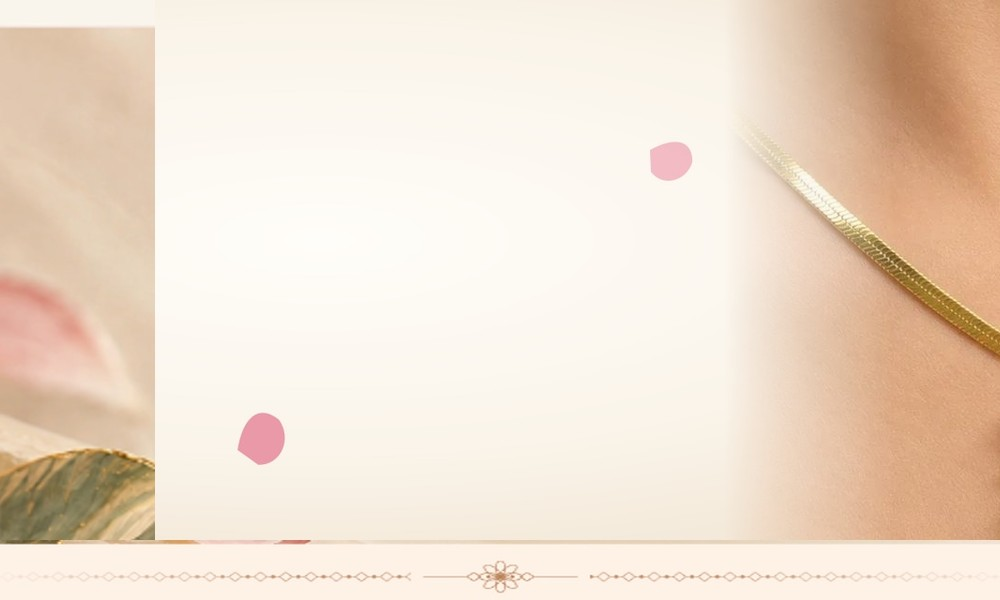
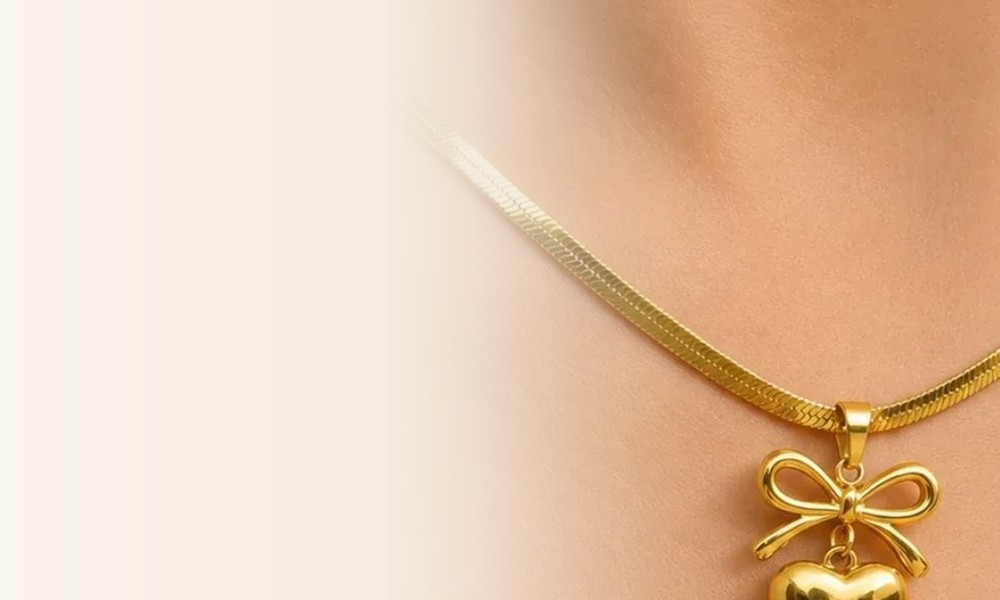
Blend single jewellery photo seamlessly into warm studio background and remove all flowers

diff --git a/scripts/create-seamless-blended-banners.js b/scripts/create-seamless-blended-banners.js
@@ -1,0 +1,206 @@
+const sharp = require('sharp');
+const path = require('path');
+const fs = require('fs');
+
+const BANNERS_DIR = path.join(__dirname, '../public/images/banners');
+const W = 1920;
+const H = 720;
+
+// Helper to create a smooth feathered mask for blending
+function makeFeatherMaskSvg(w, h, fadeWidth = 450) {
+  return Buffer.from(`
+    <svg width="${w}" height="${h}" xmlns="http://www.w3.org/2000/svg">
+      <defs>
+        <linearGradient id="smoothFade" x1="0%" y1="0%" x2="100%" y2="0%">
+          <stop offset="0%" stop-color="#000000" stop-opacity="0" />
+          <stop offset="${(fadeWidth * 0.25) / w * 100}%" stop-color="#FFFFFF" stop-opacity="0.15" />
+          <stop offset="${(fadeWidth * 0.6) / w * 100}%" stop-color="#FFFFFF" stop-opacity="0.6" />
+          <stop offset="${(fadeWidth * 0.85) / w * 100}%" stop-color="#FFFFFF" stop-opacity="0.9" />
+          <stop offset="${fadeWidth / w * 100}%" stop-color="#FFFFFF" stop-opacity="1" />
+          <stop offset="100%" stop-color="#FFFFFF" stop-opacity="1" />
+        </linearGradient>
+      </defs>
+      <rect width="${w}" height="${h}" fill="url(#smoothFade)" />
+    </svg>
+  `);
+}
+
+// ----------------------------------------------------------------------
+// 1. SLIDER 1: GOLD HEART BOW PENDANT NECKLACE
+// ----------------------------------------------------------------------
+async function blendNecklaceBanner() {
+  const modelPath = path.join(BANNERS_DIR, 'user-gold-heart-necklace.jpg');
+
+  // The model image is 1000x1000.
+  // We scale it so height is 720px (height matches full banner height 720)
+  // Width will be 720px, or we can resize to width: 1100, height: 720 (covering right side x=820..1920)
+  const photoW = 1100;
+  const photoH = H;
+
+  // Extract around the chest & heart pendant (x: 100..950, y: 150..850)
+  const cropped = await sharp(modelPath)
+    .extract({ left: 100, top: 120, width: 850, height: 720 })
+    .resize(photoW, photoH, { fit: 'cover', position: 'center' })
+    .toBuffer();
+
+  const maskBuf = makeFeatherMaskSvg(photoW, photoH, 420);
+  const maskImg = await sharp(maskBuf).png().toBuffer();
+
+  const featheredPhoto = await sharp(cropped)
+    .composite([{ input: maskImg, blend: 'dest-in' }])
+    .png()
+    .toBuffer();
+
+  // Background gradient: from clean ivory #FAF8F5 on left to warm skin glow on right
+  const bgSvg = Buffer.from(`
+    <svg width="${W}" height="${H}" xmlns="http://www.w3.org/2000/svg">
+      <defs>
+        <linearGradient id="skinGlow" x1="0%" y1="0%" x2="100%" y2="0%">
+          <stop offset="0%" stop-color="#FAF8F5" />
+          <stop offset="45%" stop-color="#F5ECE0" />
+          <stop offset="70%" stop-color="#EEDAC5" />
+          <stop offset="100%" stop-color="#E2C4A8" />
+        </linearGradient>
+      </defs>
+      <rect width="${W}" height="${H}" fill="url(#skinGlow)" />
+    </svg>
+  `);
+  const bgBuf = await sharp(bgSvg).png().toBuffer();
+
+  const finalBanner = await sharp(bgBuf)
+    .composite([{ input: featheredPhoto, left: W - photoW, top: 0 }])
+    .jpeg({ quality: 95, mozjpeg: true })
+    .toBuffer();
+
+  fs.writeFileSync(path.join(BANNERS_DIR, 'hero-everyday-elegance.jpg'), finalBanner);
+  fs.writeFileSync(path.join(BANNERS_DIR, 'hero-necklace.jpg'), finalBanner);
+  fs.writeFileSync(path.join(BANNERS_DIR, 'hero-kalavies-royal.jpg'), finalBanner);
+
+  // Mobile version (centered on pendant)
+  const mobileBanner = await sharp(finalBanner)
+    .resize(1000, 600, { fit: 'cover', position: 'center' })
+    .jpeg({ quality: 90 })
+    .toBuffer();
+  fs.writeFileSync(path.join(BANNERS_DIR, 'hero-necklace-mobile.jpg'), mobileBanner);
+  fs.writeFileSync(path.join(BANNERS_DIR, 'hero-kalavies-royal-mobile.jpg'), mobileBanner);
+
+  console.log('✅ Generated seamless blended Banner 1 (Gold Heart Necklace)');
+}
+
+// ----------------------------------------------------------------------
+// 2. SLIDER 2: OXIDISED PEACOCK TURQUOISE EARRINGS
+// ----------------------------------------------------------------------
+async function blendPeacockBanner() {
+  const modelPath = path.join(BANNERS_DIR, 'user-peacock-earrings.jpg');
+  const photoW = 1100;
+  const photoH = H;
+
+  // In peacock image, ear & earring is around left-middle x: 100..850, y: 150..850
+  const cropped = await sharp(modelPath)
+    .extract({ left: 120, top: 100, width: 850, height: 720 })
+    .resize(photoW, photoH, { fit: 'cover', position: 'left' })
+    .toBuffer();
+
+  const maskBuf = makeFeatherMaskSvg(photoW, photoH, 420);
+  const maskImg = await sharp(maskBuf).png().toBuffer();
+
+  const featheredPhoto = await sharp(cropped)
+    .composite([{ input: maskImg, blend: 'dest-in' }])
+    .png()
+    .toBuffer();
+
+  const bgSvg = Buffer.from(`
+    <svg width="${W}" height="${H}" xmlns="http://www.w3.org/2000/svg">
+      <defs>
+        <linearGradient id="warmTone" x1="0%" y1="0%" x2="100%" y2="0%">
+          <stop offset="0%" stop-color="#FAF8F5" />
+          <stop offset="45%" stop-color="#F5EAE0" />
+          <stop offset="70%" stop-color="#EED9C7" />
+          <stop offset="100%" stop-color="#E5C5AF" />
+        </linearGradient>
+      </defs>
+      <rect width="${W}" height="${H}" fill="url(#warmTone)" />
+    </svg>
+  `);
+  const bgBuf = await sharp(bgSvg).png().toBuffer();
+
+  const finalBanner = await sharp(bgBuf)
+    .composite([{ input: featheredPhoto, left: W - photoW, top: 0 }])
+    .jpeg({ quality: 95, mozjpeg: true })
+    .toBuffer();
+
+  fs.writeFileSync(path.join(BANNERS_DIR, 'hero-dainty-hoops.jpg'), finalBanner);
+  fs.writeFileSync(path.join(BANNERS_DIR, 'hero-earrings.jpg'), finalBanner);
+
+  // Mobile version
+  const mobileBanner = await sharp(finalBanner)
+    .resize(1000, 600, { fit: 'cover', position: 'center' })
+    .jpeg({ quality: 90 })
+    .toBuffer();
+  fs.writeFileSync(path.join(BANNERS_DIR, 'hero-earrings-mobile.jpg'), mobileBanner);
+
+  console.log('✅ Generated seamless blended Banner 2 (Peacock Earrings)');
+}
+
+// ----------------------------------------------------------------------
+// 3. SLIDER 3: CRYSTAL FLORAL DROP EARRINGS
+// ----------------------------------------------------------------------
+async function blendCrystalBanner() {
+  const crystalPath = path.join(BANNERS_DIR, 'user-crystal-earrings.png');
+
+  // Crystal earrings on clean background:
+  // Resize to height 580, placed elegantly on right side
+  const crystalImg = await sharp(crystalPath)
+    .resize(null, 580, { fit: 'contain' })
+    .toBuffer();
+  const meta = await sharp(crystalImg).metadata();
+
+  // Gentle radial glow behind the crystal earrings
+  const bgSvg = Buffer.from(`
+    <svg width="${W}" height="${H}" xmlns="http://www.w3.org/2000/svg">
+      <defs>
+        <linearGradient id="pureIvory" x1="0%" y1="0%" x2="100%" y2="0%">
+          <stop offset="0%" stop-color="#FAF8F5" />
+          <stop offset="50%" stop-color="#F6F1E9" />
+          <stop offset="80%" stop-color="#F0E8DC" />
+          <stop offset="100%" stop-color="#EAE0D0" />
+        </linearGradient>
+        <radialGradient id="crystalGlow" cx="50%" cy="50%" r="50%">
+          <stop offset="0%" stop-color="#FFFFFF" stop-opacity="0.9" />
+          <stop offset="60%" stop-color="#F5EFE6" stop-opacity="0.5" />
+          <stop offset="100%" stop-color="#FAF8F5" stop-opacity="0" />
+        </radialGradient>
+      </defs>
+      <rect width="${W}" height="${H}" fill="url(#pureIvory)" />
+      <!-- Luminous ambient spotlight behind the sparkling crystal drops -->
+      <circle cx="${W - 480}" cy="${H/2}" r="340" fill="url(#crystalGlow)" />
+    </svg>
+  `);
+  const bgBuf = await sharp(bgSvg).png().toBuffer();
+
+  const finalBanner = await sharp(bgBuf)
+    .composite([{ input: crystalImg, left: W - meta.width - 240, top: (H - 580) / 2 }])
+    .jpeg({ quality: 95, mozjpeg: true })
+    .toBuffer();
+
+  fs.writeFileSync(path.join(BANNERS_DIR, 'hero-minimal-chains.jpg'), finalBanner);
+  fs.writeFileSync(path.join(BANNERS_DIR, 'hero-bangles.jpg'), finalBanner);
+
+  // Mobile version
+  const mobileBanner = await sharp(finalBanner)
+    .resize(1000, 600, { fit: 'cover', position: 'center' })
+    .jpeg({ quality: 90 })
+    .toBuffer();
+  fs.writeFileSync(path.join(BANNERS_DIR, 'hero-bangles-mobile.jpg'), mobileBanner);
+
+  console.log('✅ Generated seamless blended Banner 3 (Crystal Drops)');
+}
+
+async function main() {
+  await blendNecklaceBanner();
+  await blendPeacockBanner();
+  await blendCrystalBanner();
+  console.log('\n🎉 ALL 3 SEAMLESS BLENDED BANNERS READY!');
+}
+
+main().catch(console.error);

diff --git a/src/components/store/HeroBanner.tsx b/src/components/store/HeroBanner.tsx
@@ -40,8 +40,8 @@ export default function HeroBanner({ banners }: HeroBannerProps) {
       title: 'Everyday Elegance, Made Affordable',
       subtitle: 'HANDCRAFTED GOLD & SILVER ESSENTIALS',
       description: 'Lightweight daily-wear chains, small charms, and minimal accents crafted for effortless style.',
-      imageUrl: '/images/banners/hero-everyday-elegance.jpg?v=20261102v',
-      mobileImageUrl: '/images/banners/hero-necklace-mobile.jpg?v=20261102v',
+      imageUrl: '/images/banners/hero-everyday-elegance.jpg?v=20261102w',
+      mobileImageUrl: '/images/banners/hero-necklace-mobile.jpg?v=20261102w',
       buttonText: 'Shop Collection',
       linkUrl: '/products',
     },
@@ -50,8 +50,8 @@ export default function HeroBanner({ banners }: HeroBannerProps) {
       title: 'Dainty Studs & Everyday Hoops',
       subtitle: 'LIGHTWEIGHT GOLD-TONE & SILVER-TONE ESSENTIALS',
       description: 'Comfortable, skin-friendly daily wear designed for college, work, and everyday moments.',
-      imageUrl: '/images/banners/hero-dainty-hoops.jpg?v=20261102v',
-      mobileImageUrl: '/images/banners/hero-earrings-mobile.jpg?v=20261102v',
+      imageUrl: '/images/banners/hero-dainty-hoops.jpg?v=20261102w',
+      mobileImageUrl: '/images/banners/hero-earrings-mobile.jpg?v=20261102w',
       buttonText: 'Shop Earrings',
       linkUrl: '/products?category=earrings',
     },
@@ -60,8 +60,8 @@ export default function HeroBanner({ banners }: HeroBannerProps) {
       title: 'Delicate Crystals & Layered Chains',
       subtitle: 'MINIMAL & TRENDY FOR CASUAL & SPECIAL OCCASIONS',
       description: 'Subtle sparkle with minimalist silver drop earrings and gold-tone pendants for effortless everyday style.',
-      imageUrl: '/images/banners/hero-minimal-chains.jpg?v=20261102v',
-      mobileImageUrl: '/images/banners/hero-bangles-mobile.jpg?v=20261102v',
+      imageUrl: '/images/banners/hero-minimal-chains.jpg?v=20261102w',
+      mobileImageUrl: '/images/banners/hero-bangles-mobile.jpg?v=20261102w',
       buttonText: 'Shop Crystals',
       linkUrl: '/products?category=earrings',
     },
